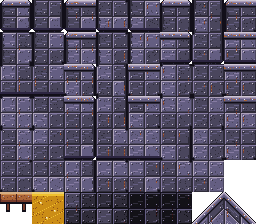
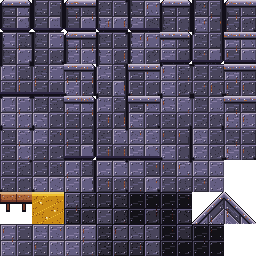
Pass 504: tile variants so brick and wall fields stop reading as a 32 px grid (tilegen)
Every zone atlas held one tile per blob mask, so a large solid field drew the
same 32 px tile over and over and banded on the grid — the independent grade's
"brick and wall fields tile obviously" (pass 497/502/503). Add a row-7 masonry
variant set to every atlas (3 bright FULL variants plus 2 more each of the
darker MID/DEEP interiors, each a fresh seed) and have TilesetFactory.ground()
scatter them across a field by a cell hash, so adjacent same-mask cells draw a
different pattern and the repeat unit stops reading. Edges (non-FULL masks) and
the depth tiers are untouched; the pixellab zones mirror the new row only so
every atlas coord the factory can return exists (their seamless GroundFill has
no banding to break). Rows 0-6 of every atlas are pixel-identical to before.

Bible 12.8; new tests/test_tileset_factory.gd and three tilegen guards
(mutation-checked); the atlas-height room test now expects 8 rows.

diff --git a/tools/art/test_tilegen.py b/tools/art/test_tilegen.py
@@ -1,5 +1,6 @@
 #!/usr/bin/env python3
-"""Guards for the backdrop gradient (bible 12.6) and the moss cap (bible 12.7).
+"""Guards for the backdrop gradient (bible 12.6), the moss cap (bible 12.7) and
+the tileset variant row (bible 12.8).
 
 These cover the pure tilegen helpers that shape every far layer's sky (so the
 moire dot-grid the independent grade flagged at passes 497/500/501 stays fixed)
@@ -125,6 +126,69 @@ def test_cap_moss_varies_per_tile():
         px = _moss_indices(seed)
         means.append(sum(k for _, _, k in px) / len(px))
     assert max(means) - min(means) >= 1.0, f"per-tile brightness barely moves: {min(means):.2f}..{max(means):.2f}"
+
+
+def _build_atlas(zone="gym"):
+    """Builds `zone`'s atlas into a temp dir and returns the PIL image."""
+    import tempfile
+    from pathlib import Path as _P
+    orig = tg.TILES
+    try:
+        tg.TILES = _P(tempfile.mkdtemp()) / "tiles"
+        tg.build_tileset(zone)
+        return tg.Image.open(tg.TILES / f"{zone}.png").convert("RGBA")
+    finally:
+        tg.TILES = orig
+
+
+def _tile(img, cx, cy):
+    T = tg.T
+    return img.crop((cx * T, cy * T, cx * T + T, cy * T + T))
+
+
+def _differ(a, b):
+    return a.tobytes() != b.tobytes()
+
+
+def test_atlas_has_the_variant_row():
+    # The atlas must carry row 7 (8 rows of 32 px tiles), or the factory's variant
+    # coords would point past the texture. (Leaving the atlas at 7 rows fails here.)
+    img = _build_atlas()
+    assert img.size[1] == tg.T * 8, f"atlas is 8 rows tall for the variant row, got {img.size}"
+
+
+def test_full_variants_differ_from_the_base_and_each_other():
+    # The three surface variants (row 7, cols 0-2) must each be a distinct masonry
+    # pattern, else scattering them would still read as one repeated tile.
+    img = _build_atlas()
+    masks = tg.blob_masks()
+    full_i = masks.index(255)
+    base = _tile(img, full_i % 8, full_i // 8)
+    v = [_tile(img, k, 7) for k in range(3)]
+    for k, var in enumerate(v):
+        assert _differ(base, var), f"FULL variant {k} differs from the base FULL tile"
+    assert _differ(v[0], v[1]) and _differ(v[1], v[2]), "the three FULL variants differ from each other"
+
+
+def test_mid_and_deep_variants_are_darker_than_their_surface():
+    # The row-7 MID/DEEP variants (cols 3-4, 5-6) carry the same darkening as the
+    # row-6 interiors, so a darkened field does not mix bright and dark tiles.
+    img = _build_atlas()
+
+    def mean(t):
+        data = t.tobytes()  # RGBA bytes
+        tot = cnt = 0
+        for i in range(0, len(data), 4):
+            if data[i + 3]:
+                tot += data[i] + data[i + 1] + data[i + 2]
+                cnt += 1
+        return tot / max(1, cnt)
+
+    surface = mean(_tile(img, 0, 7))  # a bright FULL variant
+    mid = mean(_tile(img, 3, 7))
+    deep = mean(_tile(img, 5, 7))
+    assert mid < surface, f"MID variant ({mid:.0f}) is darker than the surface ({surface:.0f})"
+    assert deep < mid, f"DEEP variant ({deep:.0f}) is darker than the MID variant ({mid:.0f})"
 
 
 def main():

diff --git a/tools/art/tilegen.py b/tools/art/tilegen.py
@@ -11,6 +11,11 @@ Tileset atlas (16 world px tiles at 2x render density, so 32 px each; 8 columns)
   row 6:    one-way platform, amber, 2 interior tiles one shade darker (two
             tiles from open air) and 2 two shades darker (three or more), then
             the two 45-degree slopes: "/" rising to the east, "\\" rising to the west
+  row 7:    extra masonry variants so large solid fields stop reading as a 32 px
+            grid (bible 12.8): 3 full-solid surface variants, then 2 more of each
+            darker interior tile (MID one shade, DEEP two). The factory picks one
+            per cell by position, so adjacent same-mask cells draw a different
+            pattern and the repeat unit no longer bands.
 Backgrounds: <zone>_far.png and <zone>_mid.png, 640x480, tile horizontally.
 
 Usage: python3 tools/art/tilegen.py
@@ -606,7 +611,7 @@ def build_tileset(zone):
         return
     masks = blob_masks()
     assert len(masks) == 47
-    img = Image.new("RGBA", (T * COLS, T * 7), CLEAR)
+    img = Image.new("RGBA", (T * COLS, T * 8), CLEAR)
     for i, m in enumerate(masks):
         paint_tile(img, (i % COLS) * T, (i // COLS) * T, m, zone, 11 + i)
     paint_one_way(img, 0, 6 * T, zone)
@@ -618,6 +623,20 @@ def build_tileset(zone):
         darken(img, (2 + k) * T, 6 * T, 1 if k < 2 else 2)
     paint_slope(img, 6 * T, 6 * T, zone, True, 121)
     paint_slope(img, 7 * T, 6 * T, zone, False, 122)
+    # Row 7: masonry variants so solid fields stop reading as a 32 px grid
+    # (bible 12.8). Each is a full-solid tile painted with a fresh seed, so its
+    # brick courses and pits land differently; the factory scatters them by cell
+    # position. Cols 0-2 are surface-bright variants (match the FULL blob tile);
+    # cols 3-4 are MID (one shade down) and 5-6 DEEP (two) so a darkened interior
+    # field varies too. The brightness darkening mirrors the row-6 interiors.
+    for k in range(3):
+        paint_tile(img, k * T, 7 * T, 255, zone, 201 + k)
+    for k in range(2):
+        paint_tile(img, (3 + k) * T, 7 * T, 255, zone, 211 + k)
+        darken(img, (3 + k) * T, 7 * T, 1)
+    for k in range(2):
+        paint_tile(img, (5 + k) * T, 7 * T, 255, zone, 221 + k)
+        darken(img, (5 + k) * T, 7 * T, 2)
     TILES.mkdir(parents=True, exist_ok=True)
     img.save(TILES / f"{zone}.png")
 

diff --git a/tools/art/pixellab_tileset.py b/tools/art/pixellab_tileset.py
@@ -148,12 +148,12 @@ def slope(tile: Image.Image, fill: Image.Image, rising_east: bool) -> Image.Imag
 
 def atlas(set_dir: str, fill_png: Path, out_png: Path, ledge_png: Path | None = None) -> None:
     """Writes a zone atlas laid out as TilesetFactory reads it (rows 0-5 blob tiles, row 6
-    one-way, amber, two MID, two DEEP, two slopes)."""
+    one-way, amber, two MID, two DEEP, two slopes; row 7 the masonry variants, bible 12.8)."""
     sys.path.insert(0, str(ROOT / "tools/art"))
     import tilegen
     tiles = load(ROOT / "art" / "pixellab" / set_dir)
     fill = Image.open(fill_png).convert("RGBA")
-    img = Image.new("RGBA", (T * 8, T * 7))
+    img = Image.new("RGBA", (T * 8, T * 8))
     for i, m in enumerate(tilegen.blob_masks()):
         img.alpha_composite(edge_only(blob_tile(tiles, m), m), ((i % 8) * T, (i // 8) * T))
     if ledge_png:
@@ -170,6 +170,16 @@ def atlas(set_dir: str, fill_png: Path, out_png: Path, ledge_png: Path | None = 
     cap = blob_tile(tiles, E | S | W | SE | SW)
     img.alpha_composite(slope(cap, fill, True), (6 * T, 6 * T))
     img.alpha_composite(slope(cap, fill, False), (7 * T, 6 * T))
+    # Row 7 masonry variants (bible 12.8). The factory scatters these across a
+    # solid field. A pixellab zone's interior is a seamless GroundFill texture, so
+    # it has no 32 px grid banding to break; the variants simply mirror their row-6
+    # equivalents so every coord the factory references exists. FULL variants
+    # (cols 0-2) stay clear, like the base FULL tile, so the fill shows through;
+    # the MID extras (cols 3-4) and DEEP extras (cols 5-6) keep the same night veil.
+    for k, alpha in enumerate([60, 60]):
+        img.alpha_composite(Image.new("RGBA", (T, T), NIGHT + (alpha,)), ((3 + k) * T, 7 * T))
+    for k, alpha in enumerate([110, 110]):
+        img.alpha_composite(Image.new("RGBA", (T, T), NIGHT + (alpha,)), ((5 + k) * T, 7 * T))
     img.save(out_png)
 
 

diff --git a/docs/loop/pass-504.md b/docs/loop/pass-504.md
@@ -1,0 +1,118 @@
+# Pass 504: tile variants so brick and wall fields stop reading as a 32 px grid
+
+## Category
+
+Art / World, from the independent-grade queue — not the rubric rotation. Art outranks the rotation
+when the queue holds no fresh Sean note (none this pass; all three notes are answered), and the
+headline art item (the PixelLab guardian bases) is **blocked**: three bases already wait for Sean's OK
+(Haar Wyrm, Thane Vorrund, Drowned Warden), the limit of three, and no note frees a slot. The hero
+sprite (the grade's top defect) would be a fourth base, also over the limit. So this pass takes the
+unblocked, code-first grade defect that pass-503's "Next" named — **tile variants / grid banding**,
+flagged at the pass-497/502/503 grades:
+
+> Brick and wall fields tile obviously; add atlas variants in `tilegen` so the grid's repeat unit
+> stops reading.
+
+No generations and no base-approval gate; it touches every zone's tileset.
+
+## What was built
+
+A zone's atlas (`tools/art/tilegen.py`) held **one tile per blob autotile mask**, each painted with a
+single seed. A large solid field is mostly full-solid (`FULL`-mask) cells, so every one drew the **same
+32 px tile** — the same brick courses, pits and bright accent stones recurring every tile, a visible
+grid. Only deep `FULL` interiors had any variation, and only a 2-way one (`MID`/`DEEP`).
+
+**Row 7 masonry variants.** Every atlas now carries a new bottom row of full-solid variants painted
+with fresh seeds, so their courses and pits land differently: **three surface-bright variants** (cols
+0–2, matching the base `FULL` brightness) and **two more each** of the darker interior tiles (`MID`,
+cols 3–4, one shade down; `DEEP`, cols 5–6, two). `TilesetFactory.ground()` scatters them across a
+field by a pure hash of the cell position — a **4-way** choice at depth 1 (base plus three variants)
+and across the widened 4-tile `MID`/`DEEP` sets deeper in. Adjacent same-mask cells now draw a
+different pattern, so the repeat unit stops reading. Edges (non-`FULL` masks) are untouched, so
+outlines and caps stay continuous, and the depth tiers (space-not-texture darkening) are preserved.
+
+The **pixellab zones** (hearthroot) fill a solid interior from a seamless `GroundFill` texture, so
+they have no 32 px grid to break; their atlas (`tools/art/pixellab_tileset.py`) grew the same row 7
+only so every coord the factory can return exists — the `FULL` variants stay clear (the fill shows
+through) and the `MID`/`DEEP` extras keep the same night veil as the row-6 interiors.
+
+This is **code-first**: rows 0–6 of every atlas are unchanged (only the new row 7 is added), no art is
+repainted, and the selection is deterministic. One existing room test
+(`test_tiles_are_drawn_at_double_density`) asserted each atlas is exactly 7 rows tall; it now expects
+8, for the variant row.
+
+## A determinism gotcha, handled
+
+As at pass 503, a full `python tools/art/tilegen.py` run re-encodes the backgrounds byte-differently
+but pixel-identically on this PC (a Pillow quirk). So only the tileset builder was run (not the
+backgrounds), and every regenerated atlas was checked against `HEAD`: **rows 0–6 are pixel-identical**
+to `HEAD` across painted and pixellab zones (confirmed per-zone), so the diff is purely the added row
+7. `assets/bg/` is untouched. All eleven `assets/tiles/<zone>.png` carry a real pixel change (the new
+variant row); `hearthroot_fill.png` is unchanged.
+
+One local gotcha, handled: the atlas PNGs grew from 7 to 8 rows, so Godot's import cache (`.godot/`,
+not committed) had to be refreshed with `godot --headless --import` before the factory test's
+`load()` saw the taller texture — otherwise `create_tile` at a row-7 coord reported "outside the
+texture." CI checks out fresh and imports the committed PNGs at their true size, so it is unaffected;
+the note is only for re-running the suite locally after a tileset resize.
+
+## Checks
+
+- **Verified by eye** at 1x and 2x. A 10×8 solid `gym` brick field rendered base-only vs
+  variant-scattered side by side: the base field shows the rigid 32 px repeat (the same accent-stone
+  cluster recurring every tile); the scattered field distributes the lighter stones irregularly, so it
+  reads as a real wall, not a stamped texture. In-game on `trials/stillness` — a room of genuinely
+  thick brick walls and a large central block — the masonry now reads as a believable wall with its
+  lighter stones scattered, no 32 px banding, and **no holes or broken tiles** where the thick field's
+  `FULL` cells draw the new variants. The pixellab town (`hearthroot/market`) still renders its thick
+  stone border solid and correct — the critical no-breakage check for the pixellab path.
+- **`tests/test_tileset_factory.gd`** (new, 6 tests, registered in the runner) guards the factory: a
+  `FULL` surface field spreads over base + 3 variants; every tile used is the base or a variant; the
+  `MID`/`DEEP` tiers scatter within their darker sets; edges stay stable across cells; and **every
+  variant coord is a real tile** in the built atlas for a painted and a pixellab zone (so walls can
+  never draw blank). **Mutation-checked:** removing the `FULL` depth-1 scatter from `ground()` fails
+  the scatter test.
+- **`tools/art/test_tilegen.py`** (now 13 checks, 3 new) guards the atlas: it is 8 rows tall, the three
+  `FULL` variants differ from the base and from each other, and the `MID`/`DEEP` variants darken
+  correctly. The game suite is Godot-only and CI runs no Python unit tests, so this is a local
+  art-tool guard — run it with `python tools/art/test_tilegen.py`. **Mutation-checked:** reverting the
+  atlas to 7 rows fails the row guard; making the three `FULL` variant seeds identical fails the
+  distinctness guard.
+- Full local Godot suite green (below); CI test + mix green; no test loads the tileset PNGs, so the
+  regenerated art does not touch the game suite beyond the factory logic the new test drives.
+
+## Rubric (design bible 15.3)
+
+| Category | Weight | Score | Notes |
+| --- | --- | --- | --- |
+| Movement feel | 20 | 99 | Unchanged. |
+| Combat and enemies | 15 | 99 | Unchanged. |
+| World and level design | 15 | 99 | Unchanged. |
+| Art cohesion | 15 | 92 | Solid brick and wall fields no longer band on the 32 px grid: `ground()` scatters several masonry variants across a field so the repeat unit stops reading. With pass 500's rim shading, 501's atmospheric perspective, 502's softened sky and 503's shaded grass fringe, the environment art keeps tightening; the hero and guardian HD bases remain the open gap (gated art loop). |
+| Bosses | 10 | 99 | Unchanged. |
+| Systems | 10 | 99 | Unchanged. |
+| Audio | 5 | 99 | Unchanged. |
+| Stability and performance | 5 | 99 | Pure asset + tile-selection change; the pick is a cell hash, no per-frame cost. |
+| Story and world | 5 | 99 | Unchanged. |
+
+Weighted: 97.95.
+
+## Next
+
+Pass 505: the art loop stays gated on Sean — three guardian bases (Haar Wyrm, Thane Vorrund, Drowned
+Warden) wait for his OK, the limit of three, so no new base can be made until he approves one. Until
+then, the larger code-first grade defects remain: **empty midgrounds** (several rooms are huge flat
+backdrops with a few thin platforms — add midground structure, props and verticality in the room
+layouts and decor, keeping reachability green), **flat directionless lighting** (add a directional key
+light and emissive glow with gradient falloff and contact shadow), **zone-to-zone incoherence** (unify
+outline weight and light direction across zone tilesets, pull base hues toward the master palette), and
+**enemies camouflaged against their tiles** (reserve an accent colour or outline for foes and hazards).
+Yldenfall's rooms are atmospheric-backdrop-heavy with thin solid platforms, so the biggest remaining
+"tiling" the grade sees is in the parallax midground brick/column art, not the solid tiles — a
+**midground-variant** pass (vary `<zone>_mid.png` so its brick/column field stops repeating) is the
+natural companion to this one and may lift the grade more. The hero sprite (the grade's top defect)
+needs PixelLab and would be a fourth base — held until a slot frees.
+
+For Sean (carried from pass 498, still open): the rain sheet won, so the **Haar marshes** could take a
+thin, slow drizzle to suit the fog, and the High Boughs an even fainter mist-rain — say the word and a
+pass wires it in.

diff --git a/docs/design-bible.md b/docs/design-bible.md
@@ -1578,6 +1578,14 @@ The green (or, for water zones, cyan) fringe on the top of every ground tile and
 
 Code-first and deterministic: only the eight moss-capped tilesets change, no art is repainted, and `tools/art/test_tilegen.py` guards the ramp, the root line and the per-tile shift.
 
+### 12.8 Tileset variants (grid banding)
+
+A zone's atlas (`tools/art/tilegen.py`) holds one tile per blob autotile mask, each painted with a single seed. A large solid field is mostly full-solid (`FULL`-mask) cells, so if every one drew the same atlas tile the field read as a rigid 32 px grid — the same brick courses, pits and accent stones recurring every tile. The independent grade flagged this as "brick and wall fields tile obviously" (pass 497/502/503).
+
+**Masonry variants (pass 504).** Row 7 of every atlas carries extra full-solid tiles painted with fresh seeds, so their brick courses and pits land differently: three surface-bright variants (matching the base `FULL` brightness) and two more each of the darker interior tiles (`MID`, one shade down; `DEEP`, two). `TilesetFactory.ground()` scatters them across a field by cell position — a 4-way choice at depth 1 (base plus three variants) and across the widened `MID`/`DEEP` sets deeper in — so adjacent same-mask cells draw a different pattern and the repeat unit stops reading. Edges (non-`FULL` masks) are untouched, so outlines and caps stay continuous. The pixellab zones (e.g. hearthroot) fill their interior from a seamless `GroundFill` texture, so they have no grid banding to break; their row-7 variants mirror the base tiles (`tools/art/pixellab_tileset.py`) only so every atlas coord the factory can return exists.
+
+Code-first and deterministic: rows 0–6 of every atlas are unchanged (only the new row 7 is added), no art is repainted, and the selection is a pure hash of the cell. `tools/art/test_tilegen.py` guards the variant row and that the variants differ and darken correctly; `tests/test_tileset_factory.gd` guards the scatter, the depth tiers and that every variant coord is a real tile in the built atlas.
+
 ---
 
 ## 13. Asset Production Plan
